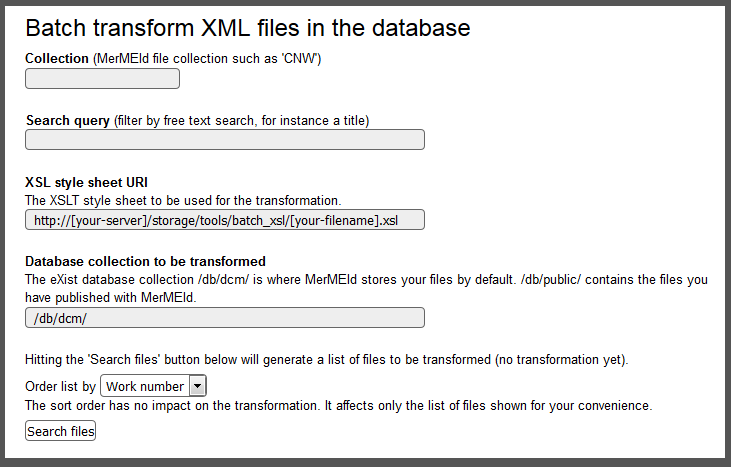
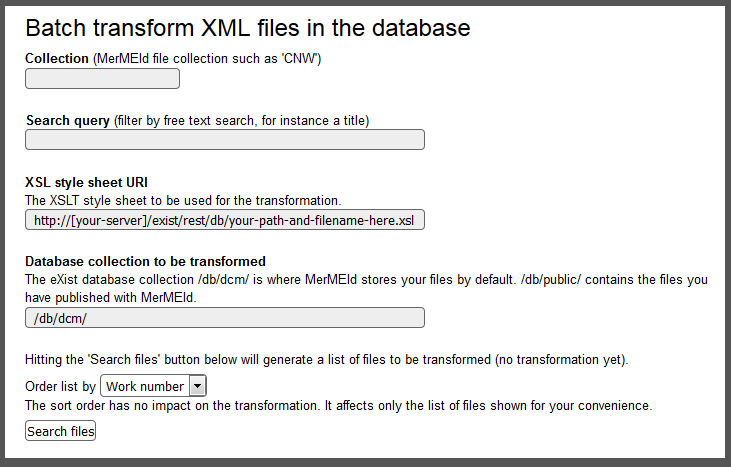
update batch transform manual

Changed region(s): [[0.2107, 0.4497, 0.5718, 0.5096]]

diff --git a/trunk/mermeid/manual/batch_transform.html b/trunk/mermeid/manual/batch_transform.html
@@ -51,9 +51,10 @@
                 suggests default settings in some of the fields:</p>
             <p><img alt="Batch transform" src="../images/manual/batch_transform.png"
                     class="illustration" /></p>
-            <p>Fill in the form to define which files to select. The default location of the XSLT style sheets 
-                (http://[your-server]/storage/tools/batch_xsl/) is referring to the collection /db/mermeid/tools/batch_xsl/ 
-                in your eXist database, but your style sheet may also be located outside of the database or on some other server. 
+            <p>Fill in the form to define which files to select. The recommended default location of the 
+                XSLT style sheets is  
+                (http://[your-server]/exist/rest/db/mermeid/tools/batch_xsl/), i.e. in your eXist database, 
+                but your style sheet may also be located outside of the database or on some other server. 
                 Click the 'Search files' button to get a list of files matching the search criteria. 
                 Possibly not all files will actually be changed &mdash; that depends on your XSL transformation. 
                 The list only indicates the files that the script will attempt to transform.</p>
